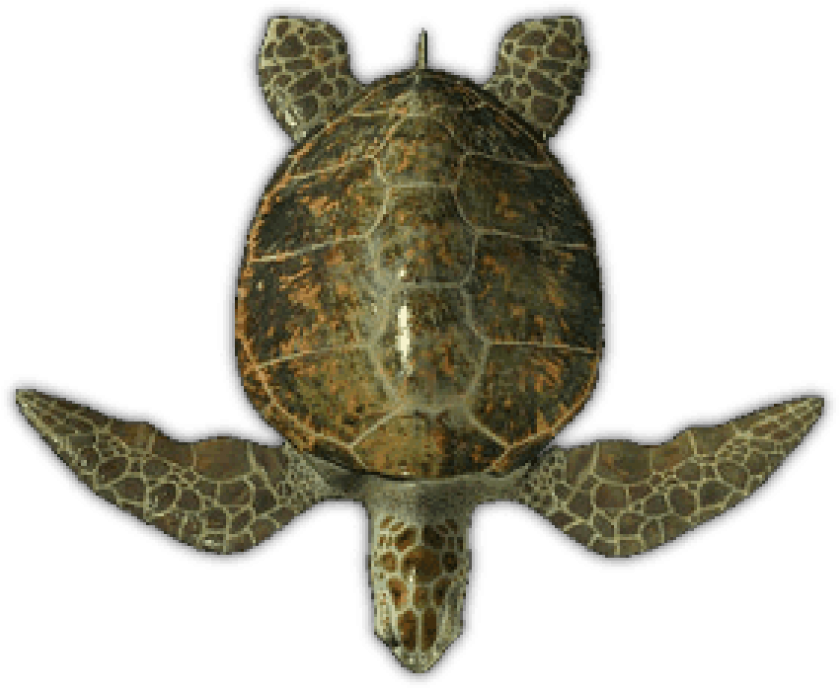
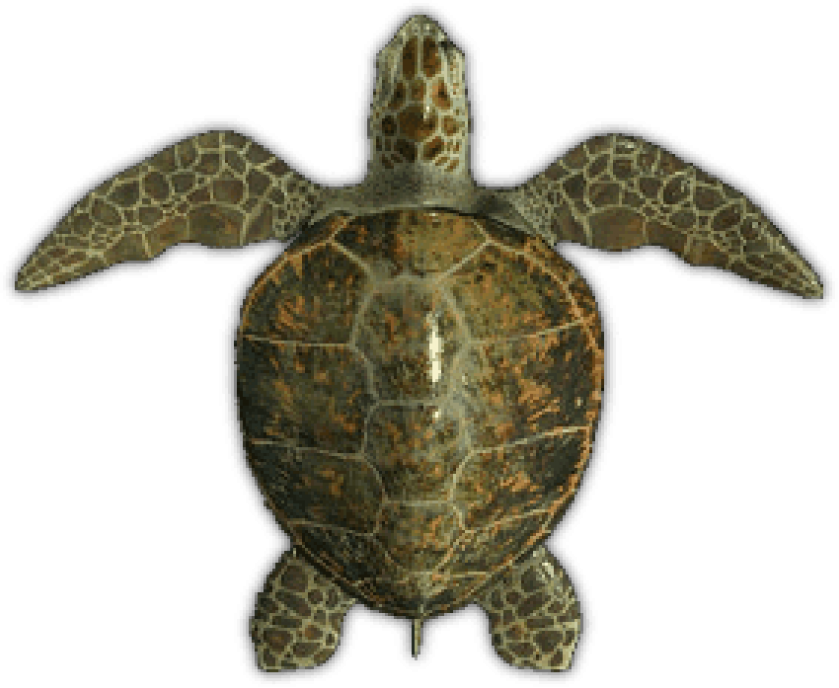
Implemented turtle selector

diff --git a/src/slogo/view/canvas/TurtleView.java b/src/slogo/view/canvas/TurtleView.java
@@ -1,18 +1,40 @@
 package slogo.view.canvas;
 
+import java.util.function.Consumer;
 import javafx.scene.image.Image;
 import javafx.scene.image.ImageView;
+import slogo.view.SelectorTarget;
 
-public class TurtleView extends ImageView {
+public class TurtleView extends ImageView implements SelectorTarget<String> {
+
+  public static final String IMAGES_DIRECTORY = "resources/images/";
+  public static final String DEFAULT_TURTLE = "turtle-default.png";
+  public static final String REALISTIC_TURTLE = "turtle-realistic.png";
+
+  private Image myTurtleImage;
 
   public TurtleView() {
     this.setId("TurtleView");
-    Image image = new Image("resources/images/turtle-default.png");
-    this.setImage(image);
-    this.setFitWidth(40);
+    changeTurtleImage("Default");
+    this.setFitHeight(50);
     this.setPreserveRatio(true);
     this.setSmooth(true);
     this.setCache(true);
   }
 
+  @Override
+  public Consumer<String> updateAction() {
+    return this::changeTurtleImage;
+  }
+
+  private void changeTurtleImage(String turtleImage) {
+    if (turtleImage.equals("Default")) {
+      myTurtleImage = new Image(IMAGES_DIRECTORY + DEFAULT_TURTLE);
+      this.setImage(myTurtleImage);
+    }
+    else if (turtleImage.equals("Realistic")) {
+      myTurtleImage = new Image(IMAGES_DIRECTORY + REALISTIC_TURTLE);
+      this.setImage(myTurtleImage);
+    }
+  }
 }

diff --git a/src/slogo/view/canvas/Grid.java b/src/slogo/view/canvas/Grid.java
@@ -32,7 +32,12 @@ public class Grid extends Pane implements SelectorTarget<String> {
     this.getChildren().addAll(xAxis, yAxis);
   }
 
-  public void changeGridType(String gridType) {
+  @Override
+  public Consumer<String> updateAction() {
+    return this::changeGridType;
+  }
+
+  private void changeGridType(String gridType) {
     if (gridType.equals("None")) {
       xAxis.setOpacity(0);
       yAxis.setOpacity(0);
@@ -41,10 +46,5 @@ public class Grid extends Pane implements SelectorTarget<String> {
       xAxis.setOpacity(1);
       yAxis.setOpacity(1);
     }
-  }
-
-  @Override
-  public Consumer<String> updateAction() {
-    return this::changeGridType;
   }
 }

diff --git a/src/slogo/view/menubar/TurtleSelector.java b/src/slogo/view/menubar/TurtleSelector.java
@@ -15,7 +15,7 @@ public class TurtleSelector extends VBox implements Selector<String> {
     this.getStyleClass().add("selector");
     Label myLabel = new Label("Turtle Image");
     myComboBox = new ComboBox<>();
-    myComboBox.getItems().addAll("Default");
+    myComboBox.getItems().addAll("Default", "Realistic");
     myComboBox.getSelectionModel().selectFirst();
 
     this.getChildren().addAll(myLabel, myComboBox);

diff --git a/src/slogo/view/MainView.java b/src/slogo/view/MainView.java
@@ -29,6 +29,7 @@ public class MainView extends VBox {
 
     connectColorSelector(mySLogoCanvas, myMenuBar.getBackgroundSelector());
     connectStringSelector(mySLogoCanvas.getGrid(), myMenuBar.getGridSelector());
+    connectStringSelector(mySLogoCanvas.getTurtleView(), myMenuBar.getTurtleSelector());
   }
 
   private void connectColorSelector(SelectorTarget<Color> target, Selector<Color> selector) {

diff --git a/src/slogo/view/canvas/SLogoCanvas.java b/src/slogo/view/canvas/SLogoCanvas.java
@@ -38,4 +38,8 @@ public class SLogoCanvas extends StackPane implements SelectorTarget<Color> {
   public Grid getGrid() {
     return myGrid;
   }
+
+  public TurtleView getTurtleView() {
+    return myTurtleView;
+  }
 }
